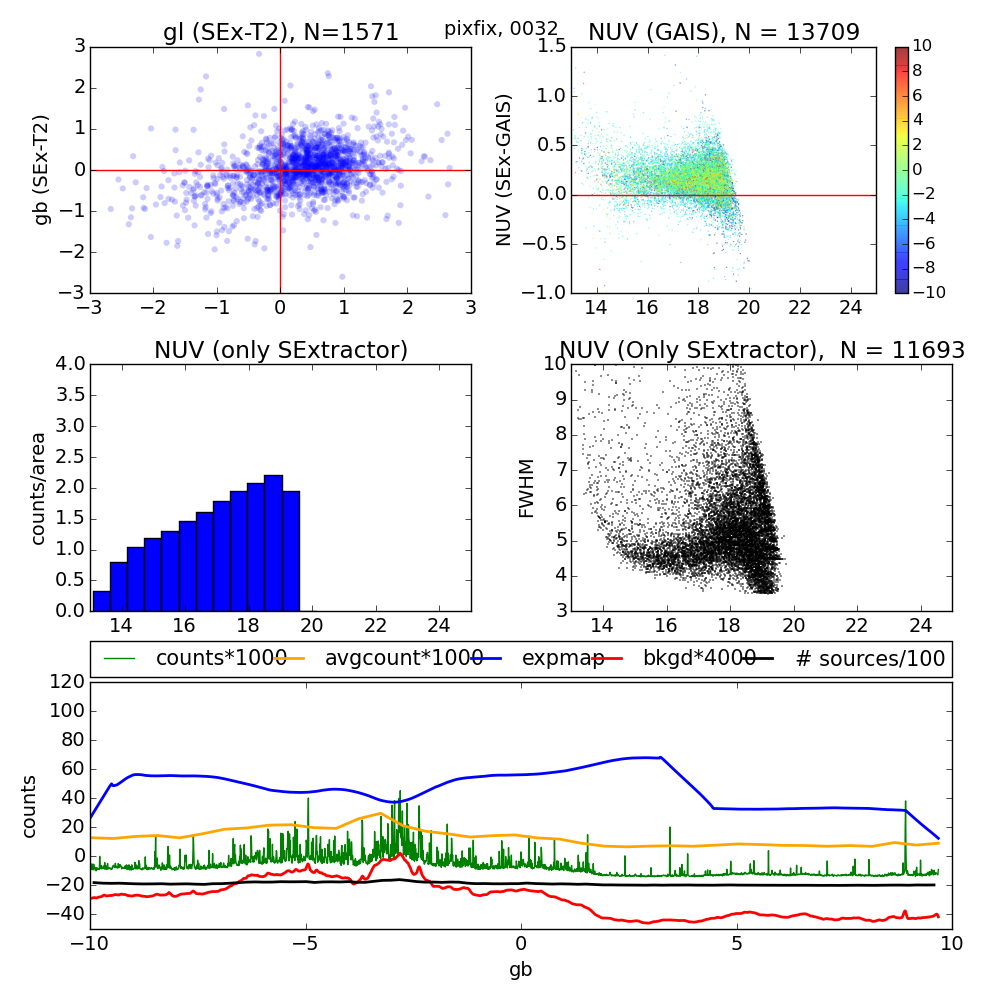
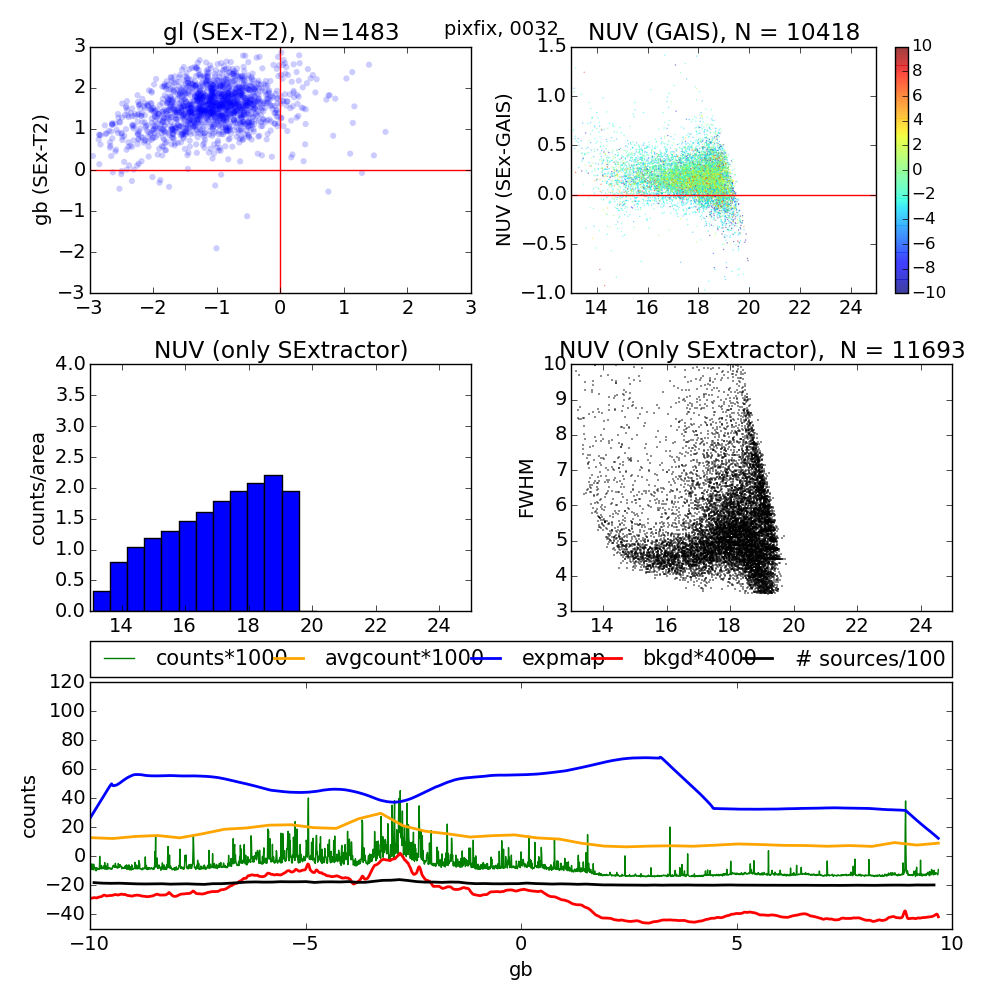
matchplot

diff --git a/pipeline/catspreadplots.py b/pipeline/catspreadplots.py
@@ -26,8 +26,8 @@ fec = 1
 #scans = ['253.4', '254.3', '255.2', '256.1', '257.0', '258.8', '259.7', '260.6', '261.5', '263.3', '264.2', '265.1', '266.0', '266.9', '268.7', '269.6', '270.5', '271.4', '272.3', '274.1', '275.0', '275.9', '276.8', '278.6', '279.5', '281.3', '284.0', '285.8', '286.7', '288.5', '290.3', '291.2', '292.1', '293.0', '293.9', '295.7', '297.5', '298.4', '301.1', '302.0', '302.9', '303.8', '304.7', '305.6', '308.3', '310.1', '315.5', '316.4', '317.3', '318.2', '319.1', '320.0', '320.9', '321.8', '322.7', '323.6', '325.4', '326.3', '327.2', '328.1', '329.0', '331.7', '332.6', '333.5', '334.4', '335.3', '338.9', '341.6', '358.7', '359.6']
 
 # fec regions
-scans = ['0014']#, '0032', '0059', '0203', '0239', '0356']
-
+#scans = ['0014', '0032', '0059', '0203', '0239', '0356']
+scans = ['0032']
 
 # Incomplete scans
 incscans = ['9.5', '14.9', '79.7', '90.5', '91.4', '103.1', '104.0', '122.9', '127.4', '223.7', '273.2', '283.1', '289.4', '306.5', '309.2', '324.5', '329.9', '338.0', '339.8', '342.5', '343.4', '345.2', '348.8', '349.7', '350.6', '351.5', '352.4', '353.3', '354.2', '355.1', '356.0', '357.8']

diff --git a/pipeline/intmaps_sextractor.py b/pipeline/intmaps_sextractor.py
@@ -34,9 +34,9 @@ matplotlib.rcParams['font.size'] = 17
 
 # fec scans
 #scans = ['0014', '0032', '0059', '0203', '0239', '0356', '0392', '0743', '1103']
-#scans = ['0014', '0032', 
+#scans = ['0014'
 
-scans = ['0059', '0203', '0239', '0356']  # These scans supposively has the half pixel fix
+scans = ['0032','0059', '0203', '0239', '0356']  # These scans supposively has the half pixel fix
 
 
 # Incomplete scans
@@ -55,8 +55,8 @@ code = 'det_thresh4_phot_autopar2.5_3.5'
 #########################################################################
 # Decide to run on full or partial scans
 #########################################################################
-run1 = 1
-run2 = 0
+run1 = 0
+run2 = 1
 
 fec = 1
 
